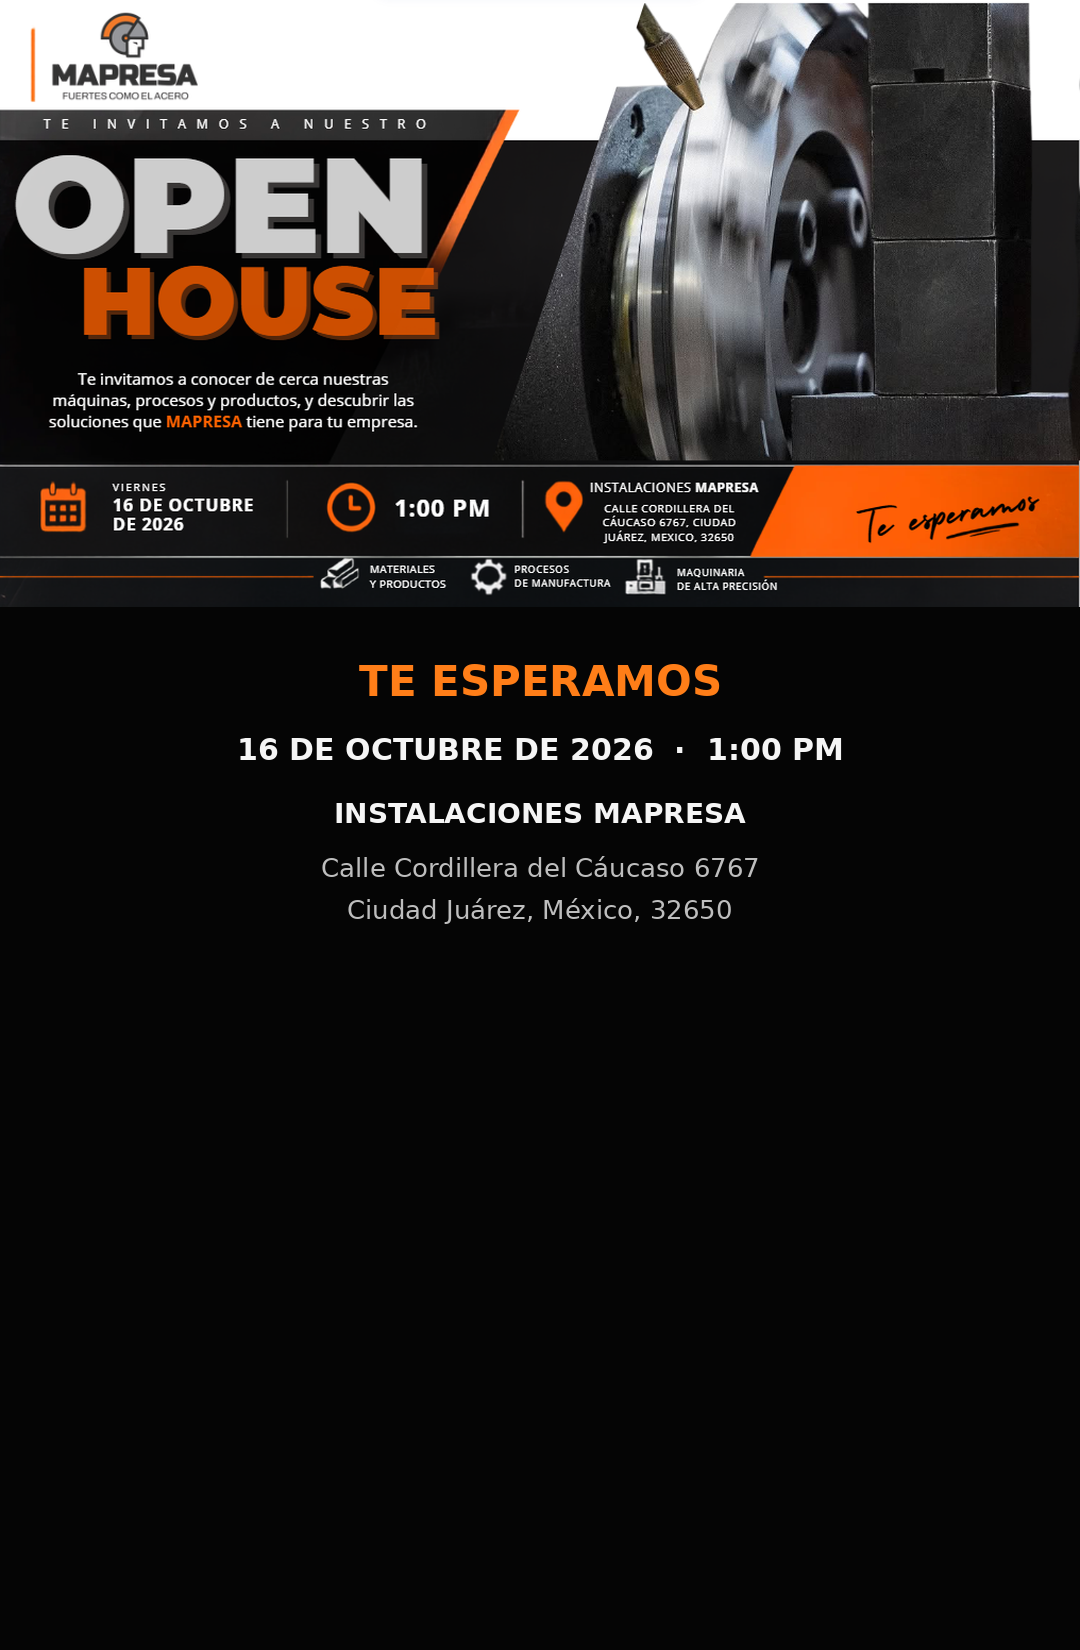
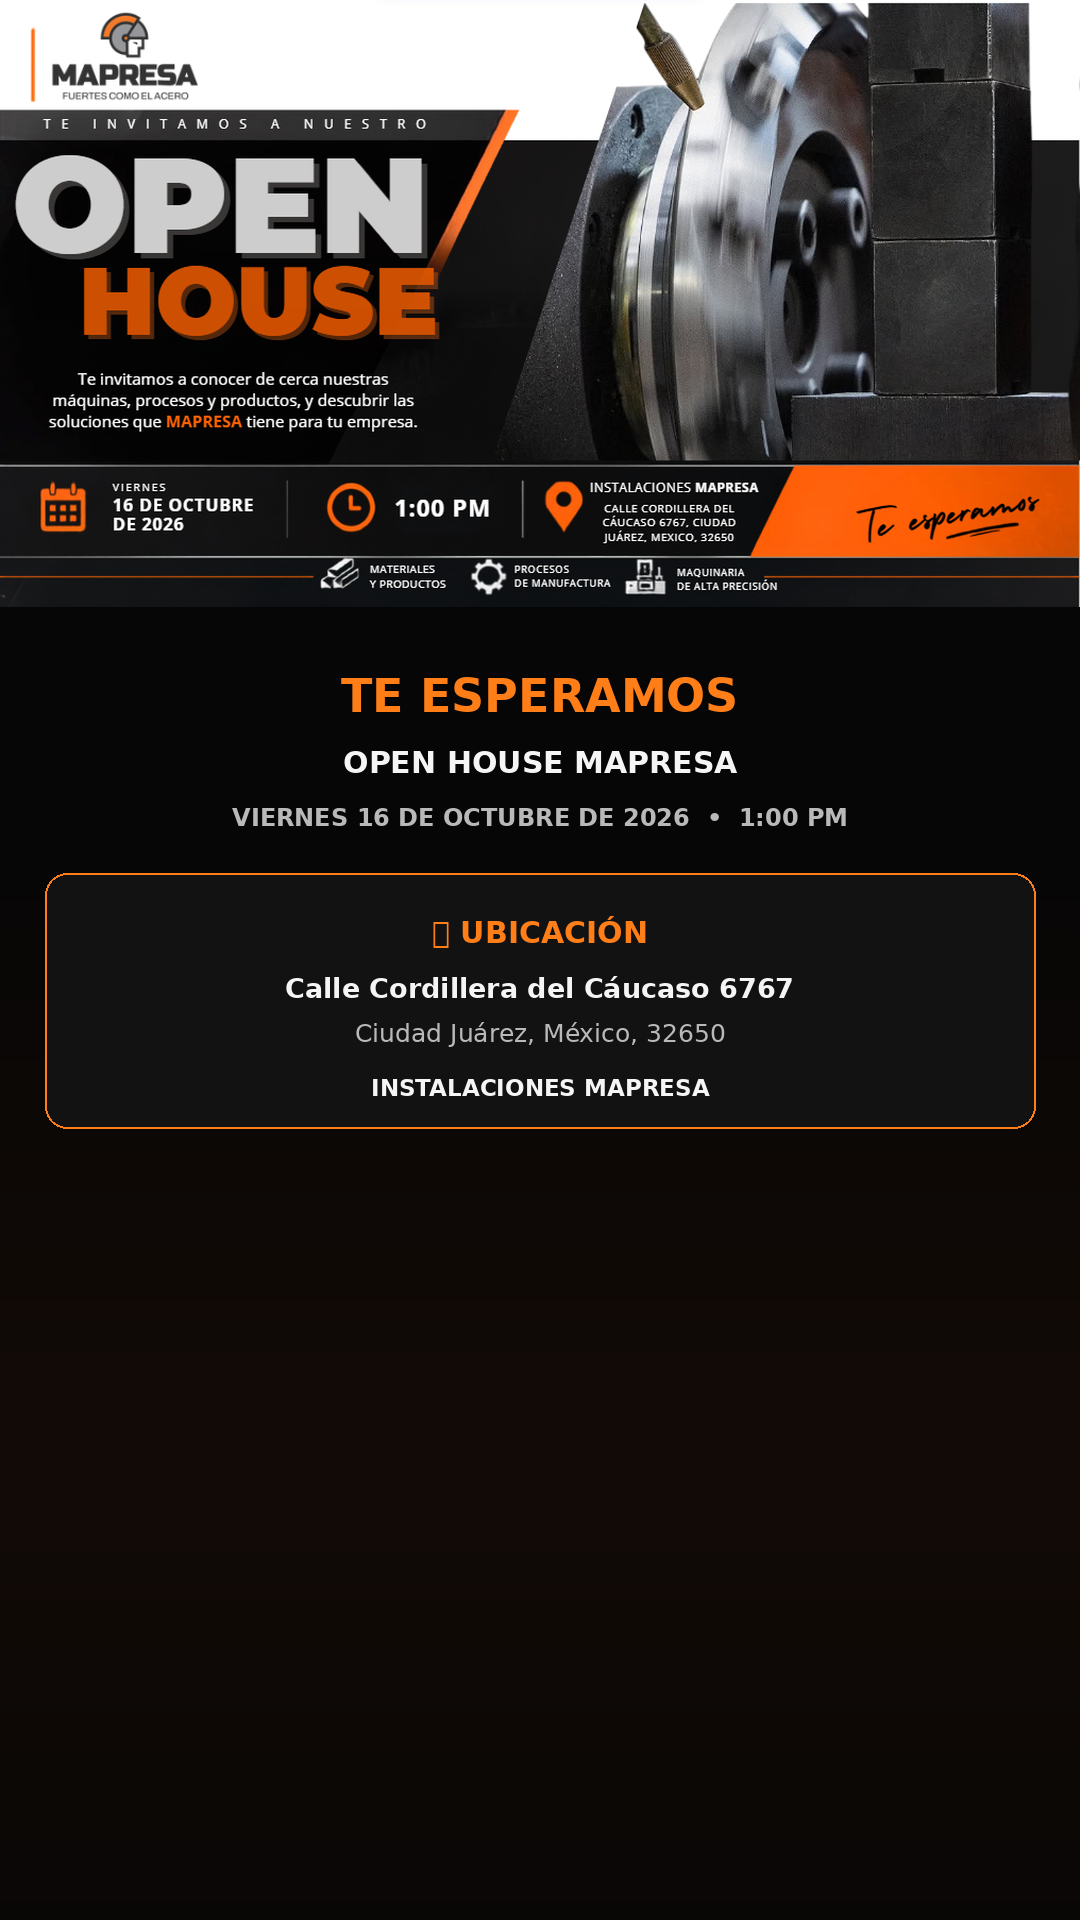
Add files via upload

Changed region(s): [[0.0, 0.0, 1.0, 0.5873], [0.8556, 0.1236, 0.9472, 0.1545], [0.9472, 0.0618, 1.0, 0.0927]]

diff --git a/index.html b/index.html
@@ -1,73 +1,22 @@
-<!doctype html>
-<html lang="es">
-<head>
-<meta charset="utf-8">
-<meta name="viewport" content="width=device-width,initial-scale=1,viewport-fit=cover">
+<!doctype html><html lang="es"><head>
+<meta charset="utf-8"><meta name="viewport" content="width=device-width,initial-scale=1,viewport-fit=cover">
 <title>MAPRESA | Open House</title>
 <style>
-*{box-sizing:border-box}
-html,body{margin:0;padding:0;background:#050505;color:#fff;font-family:Arial,Helvetica,sans-serif}
-body{overflow-x:hidden}
-#cover{
- position:fixed;inset:0;z-index:20;display:flex;align-items:center;justify-content:center;
- background:#050505;transition:opacity .45s ease,visibility .45s ease;
-}
-#cover.hide{opacity:0;visibility:hidden;pointer-events:none}
-.cover-inner{text-align:center;width:90vw;max-width:700px}
-.logo{display:block;width:min(58vw,310px);max-height:240px;object-fit:contain;margin:0 auto 30px}
-h1{font-size:clamp(44px,8vw,82px);line-height:.95;margin:0 0 34px;font-weight:900;letter-spacing:3px}
-.open-btn{
- border:0;border-radius:11px;padding:18px 30px;min-width:min(82vw,350px);
- background:#ff7e18;color:#111;font-size:20px;font-weight:900;cursor:pointer
-}
-#invite{display:none;min-height:100vh;padding-bottom:28px}
-#invite.show{display:block}
-.mobile-invite{display:block;width:100%;height:auto;margin:0 auto}
-.actions{width:calc(100% - 28px);max-width:620px;margin:18px auto 0}
-.confirm{
- display:flex;align-items:center;justify-content:center;min-height:62px;
- border-radius:12px;background:#ff7e18;color:#111;text-decoration:none;
- font-size:18px;font-weight:900;letter-spacing:.5px;
- box-shadow:0 8px 25px rgba(255,126,24,.2)
-}
-@media(min-width:700px){
- #invite{padding:24px 0 40px}
- .mobile-invite{width:min(100%,900px);border-radius:8px}
-}
-@media(max-width:699px){
- .logo{width:min(62vw,280px)}
- h1{font-size:48px}
- .open-btn{font-size:18px}
- .mobile-invite{width:100vw}
- .actions{margin-top:14px}
- .confirm{min-height:58px;font-size:16px}
-}
-</style>
-</head>
-<body>
-<section id="cover">
- <div class="cover-inner">
-  <img class="logo" src="logo-mapresa.png" alt="MAPRESA">
-  <h1>OPEN HOUSE</h1>
-  <button class="open-btn" id="open">ABRIR INVITACIÓN</button>
- </div>
-</section>
-
-<main id="invite">
- <img class="mobile-invite" src="invitacion-mobile.png" alt="Invitación MAPRESA Open House">
- <div class="actions">
-  <a class="confirm"
-     href="https://wa.me/526565511692?text=Confirmo%20mi%20asistencia%20al%20Open%20House%20de%20MAPRESA%20el%2016%20de%20octubre%20de%202026."
-     target="_blank" rel="noopener">CONFIRMAR ASISTENCIA</a>
- </div>
-</main>
-
-<script>
-document.getElementById('open').addEventListener('click',()=>{
- document.getElementById('cover').classList.add('hide');
- document.getElementById('invite').classList.add('show');
- window.scrollTo(0,0);
-});
-</script>
-</body>
-</html>
+*{box-sizing:border-box}html,body{margin:0;padding:0;background:#060606;color:#fff;font-family:Arial,Helvetica,sans-serif}body{overflow-x:hidden}
+#cover{position:fixed;inset:0;z-index:20;display:flex;align-items:center;justify-content:center;background:#050505;transition:.45s}
+#cover.hide{opacity:0;visibility:hidden;pointer-events:none}.cover-inner{text-align:center;width:90vw}
+.logo{display:block;width:min(60vw,310px);max-height:240px;object-fit:contain;margin:0 auto 28px}
+h1{font-size:clamp(45px,8vw,82px);margin:0 0 34px;font-weight:900;letter-spacing:3px}
+.open-btn{border:0;border-radius:11px;padding:18px 30px;min-width:min(82vw,350px);background:#ff7e18;color:#111;font-size:20px;font-weight:900;cursor:pointer}
+#invite{display:none;min-height:100vh;padding-bottom:28px}#invite.show{display:block}
+.invite-img{display:block;width:100%;height:auto;margin:0 auto}.actions{width:calc(100% - 28px);max-width:620px;margin:16px auto 0}
+.confirm{display:flex;align-items:center;justify-content:center;min-height:62px;border-radius:12px;background:#ff7e18;color:#111;text-decoration:none;font-size:18px;font-weight:900}
+@media(min-width:700px){#invite{padding:24px 0 40px}.invite-img{width:min(100%,900px);border-radius:8px}}
+@media(max-width:699px){.logo{width:min(62vw,280px)}h1{font-size:48px}.open-btn{font-size:18px}.invite-img{width:100vw}.actions{margin-top:14px}.confirm{min-height:58px;font-size:16px}}
+</style></head><body>
+<section id="cover"><div class="cover-inner"><img class="logo" src="logo-mapresa.png" alt="MAPRESA"><h1>OPEN HOUSE</h1><button class="open-btn" id="open">ABRIR INVITACIÓN</button></div></section>
+<main id="invite"><img class="invite-img" src="invitacion-mobile.png" alt="Invitación MAPRESA Open House"><div class="actions">
+<a class="confirm" href="https://wa.me/526565511692?text=Confirmo%20mi%20asistencia%20al%20Open%20House%20de%20MAPRESA%20el%2016%20de%20octubre%20de%202026." target="_blank" rel="noopener">CONFIRMAR ASISTENCIA</a>
+</div></main>
+<script>document.getElementById('open').onclick=()=>{document.getElementById('cover').classList.add('hide');document.getElementById('invite').classList.add('show');window.scrollTo(0,0)}</script>
+</body></html>
